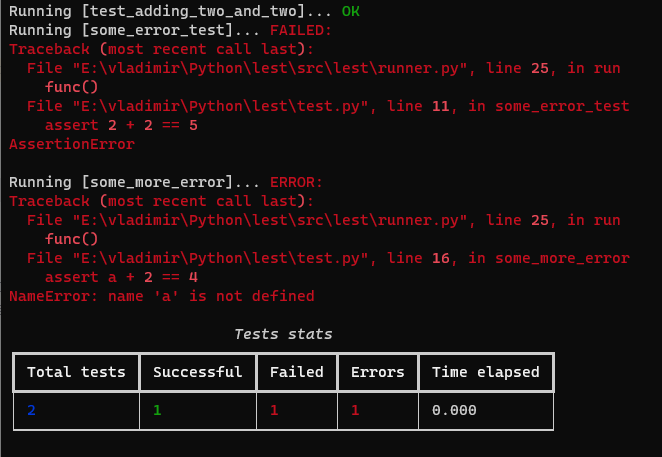
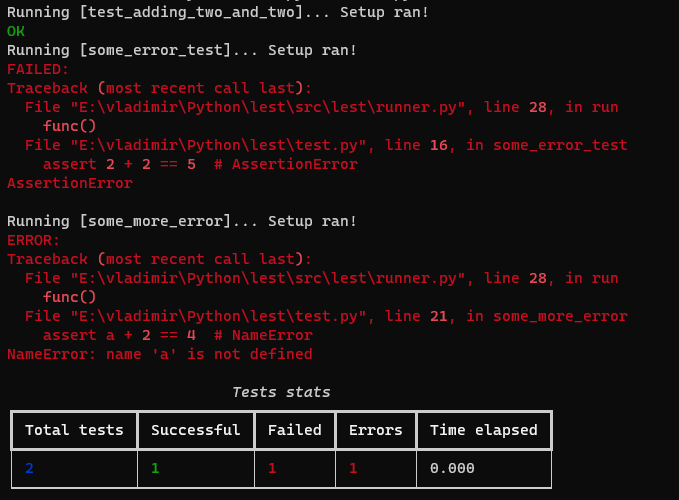
add decorator `setup`

Changed region(s): [[0.0, 0.0, 0.9668, 0.9803], [0.7251, 0.1225, 0.9366, 0.1838], [0.7251, 0.4595, 0.9366, 0.4902]]

diff --git a/src/lest/runner.py b/src/lest/runner.py
@@ -17,10 +17,13 @@ class Runner:
         self.elapsed = 0
         self.errors = 0
 
-    def run(self, funcs: list[Callable]) -> None:
+    def run(self, funcs: list[Callable], setup: Callable | None = None) -> None:
+        if setup is None:
+            setup = lambda: ...  # Empty function.
         for func in funcs:
             print(f'Running [{func.__name__}]... ', end='')
             start = perf_counter()
+            setup()
             try:
                 func()
             except AssertionError:

diff --git a/src/lest/__init__.py b/src/lest/__init__.py
@@ -1,10 +1,13 @@
 from .registerer import Registerer
 from .runner import Runner
+from .setup import Setup
 
-registerer = Registerer()
-runner = Runner()
+_registerer = Registerer()
+_runner = Runner()
+_setuper = Setup()
 
-register = registerer.__call__
-run = lambda: runner.run(registerer.funcs)
+register = _registerer.__call__
+run = lambda: _runner.run(_registerer.funcs, setup=_setuper.func)
+setup = _setuper.__call__
 
-__all__ = ['register', 'run']
+__all__ = ['register', 'run', 'setup']

diff --git a/src/lest/setup.py b/src/lest/setup.py
@@ -1,0 +1,9 @@
+from typing import Callable
+
+
+class Setup:
+    def __init__(self):
+        self.func: Callable | None = None
+
+    def __call__(self, func: Callable):
+        self.func = func

diff --git a/README.md b/README.md
@@ -17,7 +17,12 @@ pip install lest
 Code:
 
 ```python
-from lest import register, run
+from lest import register, run, setup
+
+
+@setup
+def my_setup():
+    print('Setup ran!')
 
 
 @register
